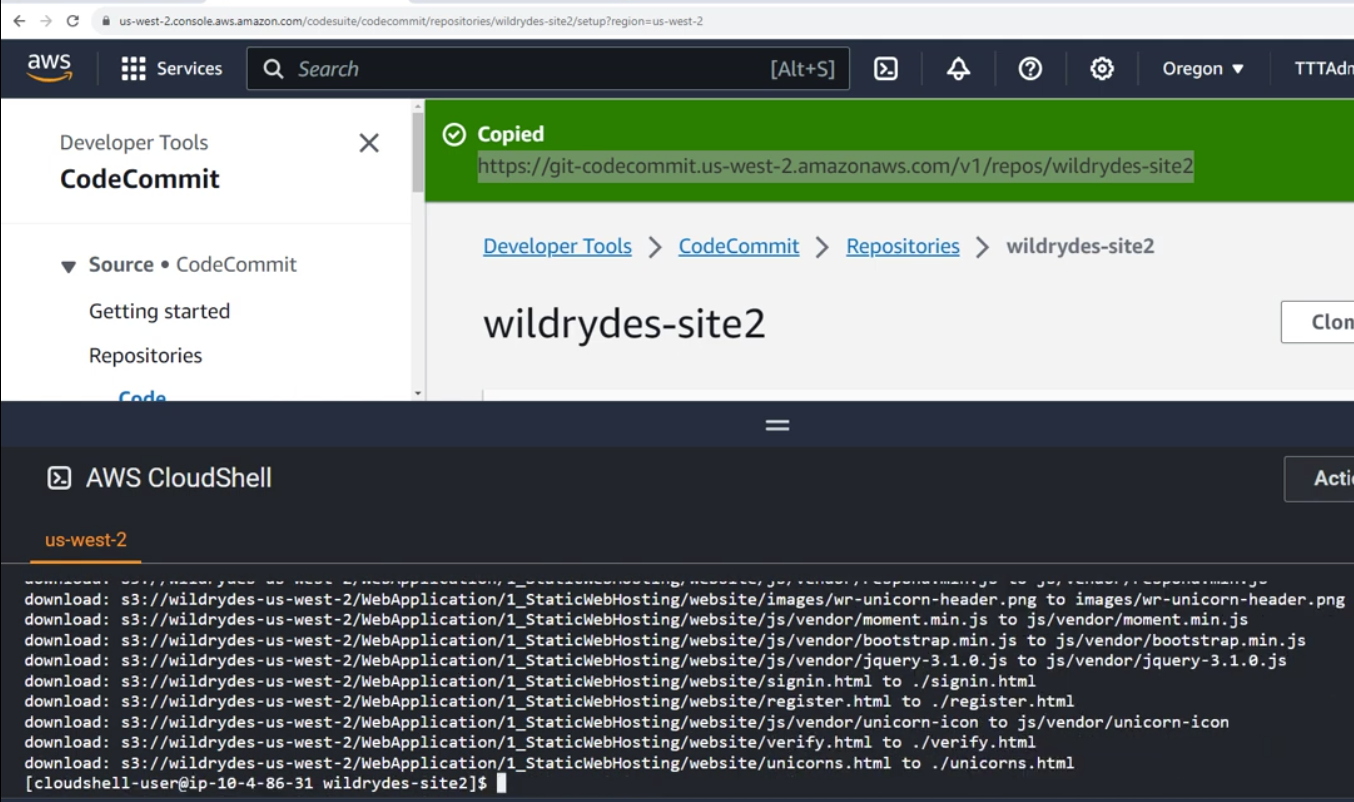
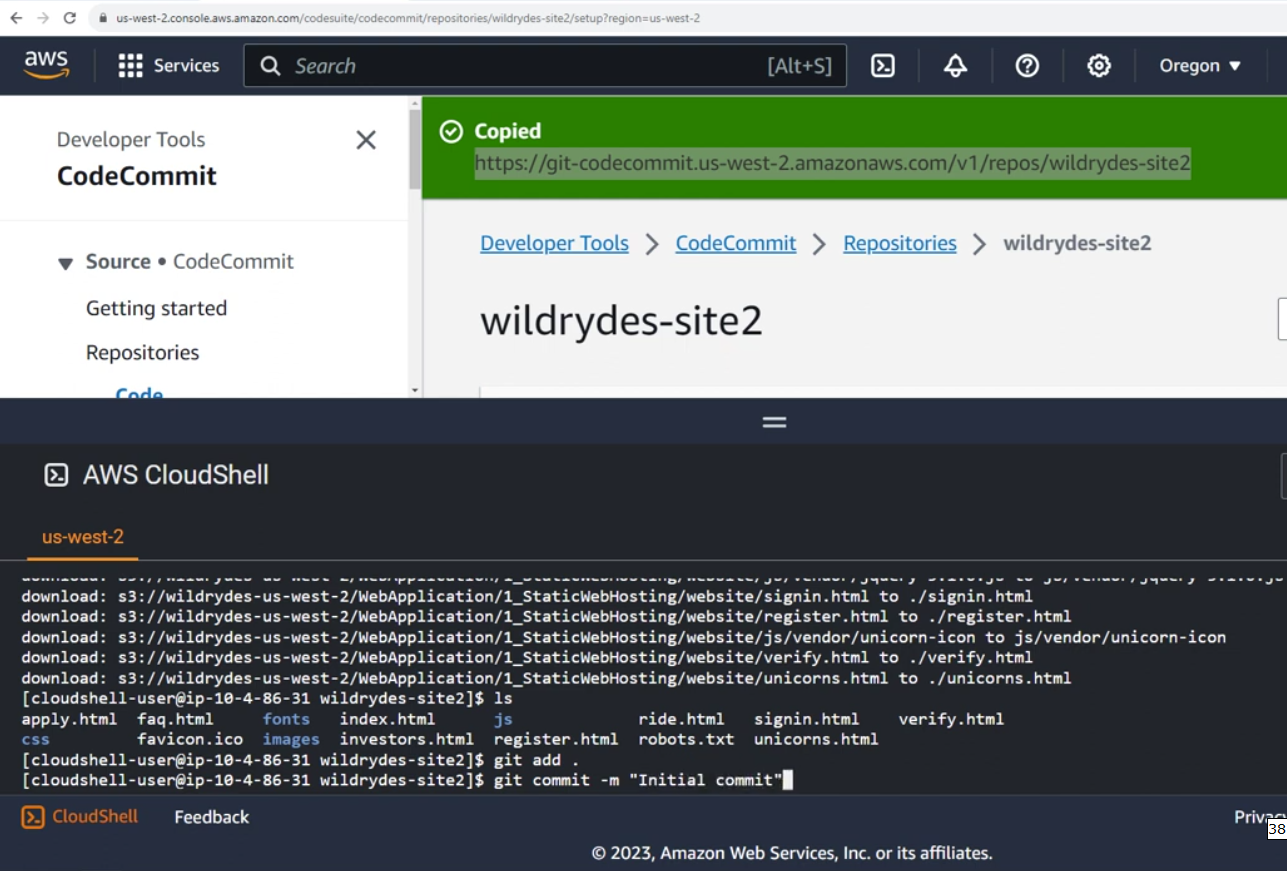
source code cloning

diff --git a/01.Ride-Hailing-Webapp-CD-Project/readme.md b/01.Ride-Hailing-Webapp-CD-Project/readme.md
@@ -43,6 +43,7 @@ We use AWS CodeCommit to:
 ![Clone empty repo for source code](./images/clone-repo2.png)
 .
 + Copy the project code from the S3 bucket and commit it to the new repo. In cloud shell cd into the empty repo folder and copy source code from S3 to this folder.
-<!-- cd wildrydes-site2 > aws s3 cp s3:// (ensure to change the region to your region) -->
+<!-- cd wildrydes-site2 > aws s3 cp s3:// (ensure to change the region to your region) then add the files to the git repository, when prompted for email and user name use the details of the IAM user not the details for HTTPS, Commit and push> followed by the HTTPS credentials -->
 ![Clone source code from S3 bucket](./images/clone-repo3.png)
 ![Clone source code from S3 bucket](./images/clone-repo4.png)
+![Clone source code from S3 bucket](./images/clone-repo5.png)
